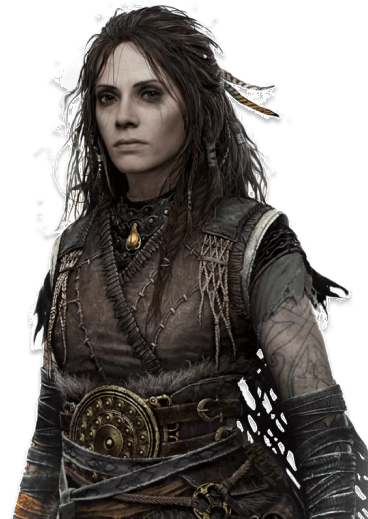
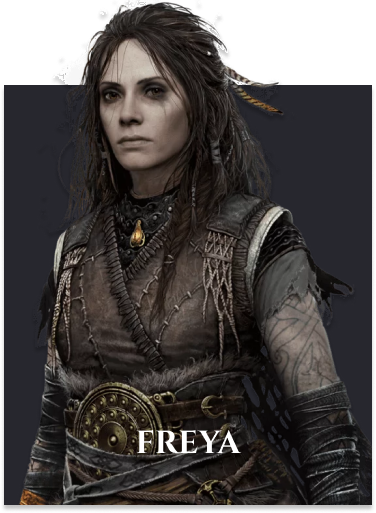
changed images for slider and styles

diff --git a/slick/slick-theme.css b/slick/slick-theme.css
@@ -41,22 +41,7 @@
     outline: none;
     background: transparent;
 }
-.slick-prev:hover,
-.slick-prev:focus,
-.slick-next:hover,
-.slick-next:focus
-{
-    color: transparent;
-    outline: none;
-    background: transparent;
-}
-.slick-prev:hover:before,
-.slick-prev:focus:before,
-.slick-next:hover:before,
-.slick-next:focus:before
-{
-    opacity: 1;
-}
+
 .slick-prev.slick-disabled:before,
 .slick-next.slick-disabled:before
 {
@@ -88,11 +73,20 @@
 }
 .slick-prev:before
 {
-    content: '←';
+    content: '';
+    width: 30px;
+    height: 30px;
+    background-image: url(../assets/images/prev.svg);
+    background-size: cover;
+    background-repeat: no-repeat;
+    background-position: center center;
+    position: absolute;
+    right: 70px;
+    top: 0;
 }
 [dir='rtl'] .slick-prev:before
 {
-    content: '→';
+    content: '';
 }
 
 .slick-next
@@ -101,16 +95,24 @@
 }
 [dir='rtl'] .slick-next
 {
-    right: auto;
     left: -25px;
 }
 .slick-next:before
 {
-    content: '→';
+    content: '';
+    width: 30px;
+    height: 30px;
+    background-image: url(../assets/images/next.svg);
+    background-size: cover;
+    background-repeat: no-repeat;
+    background-position: center center;
+    position: absolute;
+    left: 70px;
+    top: 0;
 }
 [dir='rtl'] .slick-next:before
 {
-    content: '←';
+    content: '';
 }
 
 /* Dots */

diff --git a/js/main.js b/js/main.js
@@ -1,26 +1,5 @@
-
 $('.heroes_carousel').slick({
-    centerMode: true,
-    centerPadding: '60px',
-    slidesToShow: 3,
-    responsive: [
-      {
-        breakpoint: 768,
-        settings: {
-          arrows: false,
-          centerMode: true,
-          centerPadding: '40px',
-          slidesToShow: 3
-        }
-      },
-      {
-        breakpoint: 480,
-        settings: {
-          arrows: false,
-          centerMode: true,
-          centerPadding: '40px',
-          slidesToShow: 1
-        }
-      }
-    ]
-  });
+  slidesToShow: 4,
+  slidesToScroll: 1,
+  autoplay: false,
+});

diff --git a/styles/style.css b/styles/style.css
@@ -62,7 +62,8 @@ body {
     justify-content: space-between;
 }
 
-.illistration {
+.illustration {
+    display: none;
     align-items: center;
     text-align: center;
 }
@@ -188,16 +189,11 @@ body {
     margin-bottom: 164px;
 }
 
-.heroes_box-wrapper {
-    z-index: 1;
+.heroes_img img {
+    width: 368px;
+    height: 505px;
 }
 
-.heroes_box {
-    width: 368px;
-    height: 420px;
-    background: #27272E;
-    padding-bottom: 100px;
-}
 
 .excerpt {
     padding-top: 100px;
